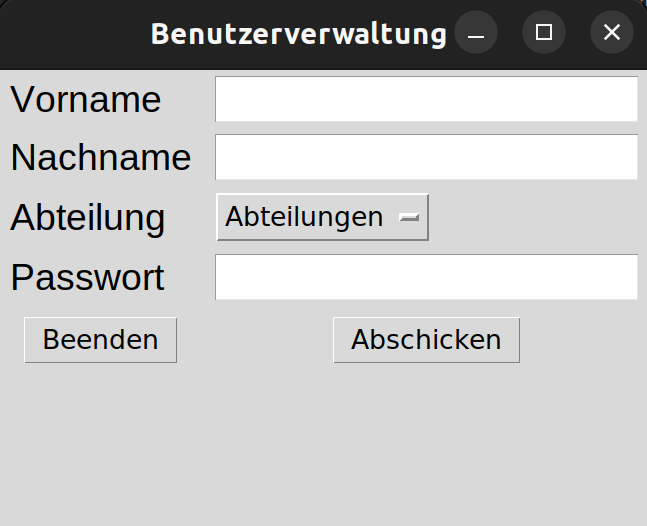
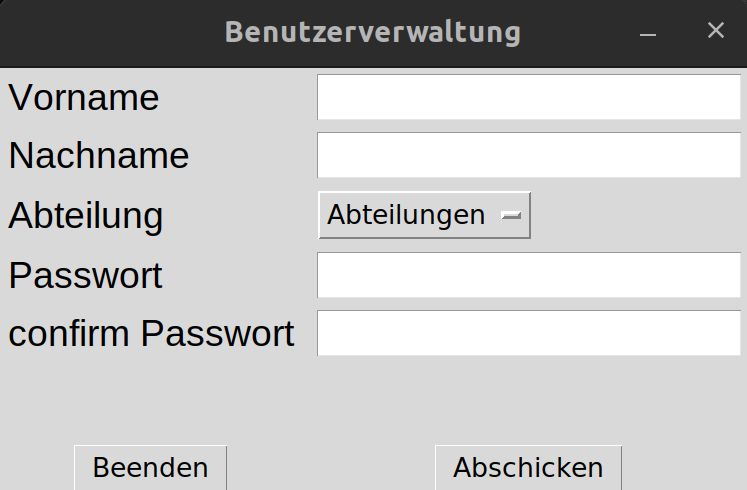
add confirm Password

diff --git a/main.py b/main.py
@@ -14,6 +14,7 @@ Abteilungen = [
     "Produktion"
 ]
 
+
 def pruefe_passwort(string):
     if not re.search(r"[A-Z]", string):
         return False
@@ -30,15 +31,27 @@ def pruefe_passwort(string):
     return True
 
 
+def selbes_passwort(pw1, pw2):
+    if pw1 == pw2:
+        return True
+    else:
+        return False
+
+
 def submit_action():
     vorname = firstname_entry.get()
     nachname = lastname_entry.get()
     abteilung = combo.get()
-    passwort = passwort_entry.get()
+    passwort = password_entry.get()
+    confirm_password = confirm_password_entry.get()
 
     if abteilung == "Abteilungen" or vorname == "" or nachname == "" or passwort == "":
         popup_message("Fehler", "Bitte füllen sie alle Felder aus.")
         return
+
+    elif not selbes_passwort(passwort, confirm_password):
+        popup_message("Fehler", "Passwörter stimmen nicht überein")
+
     elif not pruefe_passwort(passwort):
         popup_message("Fehler", "Passwort entspricht nicht den Regeln:\n"
                                 "- mindestens ein kleiner Buchstabe\n"
@@ -60,30 +73,34 @@ def popup_message(title, message):
 
 root = Tk()
 root.title("Benutzerverwaltung")
+root.resizable(False, False)
 large_font = ('Arial', 14)
 
 Label(root, text="Vorname", font=large_font).grid(row=0, column=0, sticky=W, padx=10, pady=5)
 Label(root, text="Nachname", font=large_font).grid(row=1, column=0, sticky=W, padx=10, pady=5)
 Label(root, text="Abteilung", font=large_font).grid(row=2, column=0, sticky=W, padx=10, pady=5)
 Label(root, text="Passwort", font=large_font).grid(row=3, column=0, sticky=W, padx=10, pady=5)
+Label(root, text="confirm Passwort", font=large_font).grid(row=4, column=0, sticky=W, padx=10, pady=5)
 
 firstname_entry = Entry(root, font=large_font)
 lastname_entry = Entry(root, font=large_font)
 combo = StringVar()
 combo.set(Abteilungen[0])
 drop = OptionMenu(root, combo, *Abteilungen)
-passwort_entry = Entry(root, show="*", font=large_font)
+password_entry = Entry(root, show="*", font=large_font)
+confirm_password_entry = Entry(root, show="*", font=large_font)
 
 firstname_entry.grid(row=0, column=1, sticky=W, padx=10, pady=5)
 lastname_entry.grid(row=1, column=1, sticky=W, padx=10, pady=5)
 drop.grid(row=2, column=1, sticky=W, padx=10, pady=5)
-passwort_entry.grid(row=3, column=1, sticky=W, padx=10, pady=5, columnspan=2)
+password_entry.grid(row=3, column=1, sticky=W, padx=10, pady=5)
+confirm_password_entry.grid(row=4, column=1, sticky=W, padx=10, pady=5)
 
 submit_button = Button(root, text="Abschicken", command=submit_action)
-submit_button.grid(row=4, column=1, pady=10)
+submit_button.grid(row=7, column=1, pady=10)
 
 exit_button = Button(root, text="Beenden", command=root.destroy)
-exit_button.grid(row=4, column=0, pady=10)
+exit_button.grid(row=7, column=0, pady=10)
 
 mitarbeiter_id_label = Label(root, text="")
 mitarbeiter_id_label.grid(row=5, column=0, columnspan=2)
